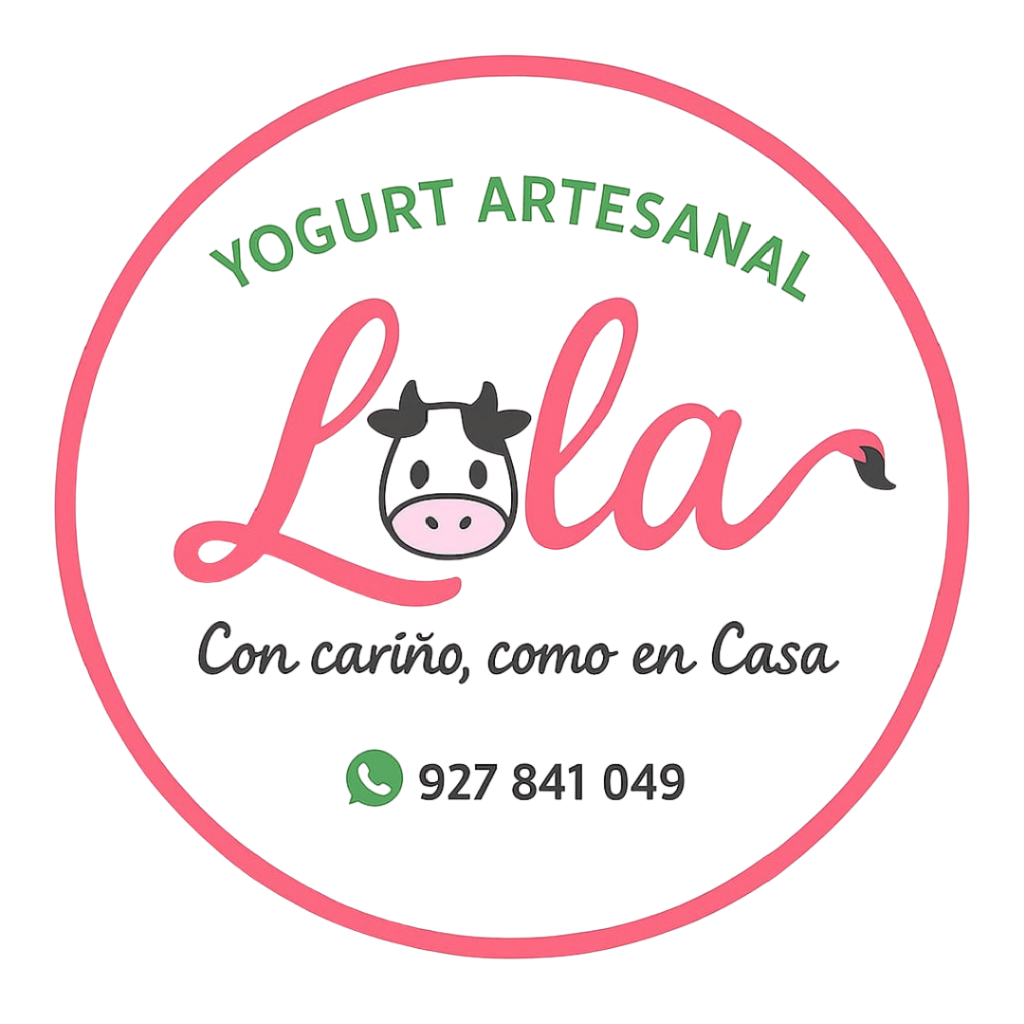
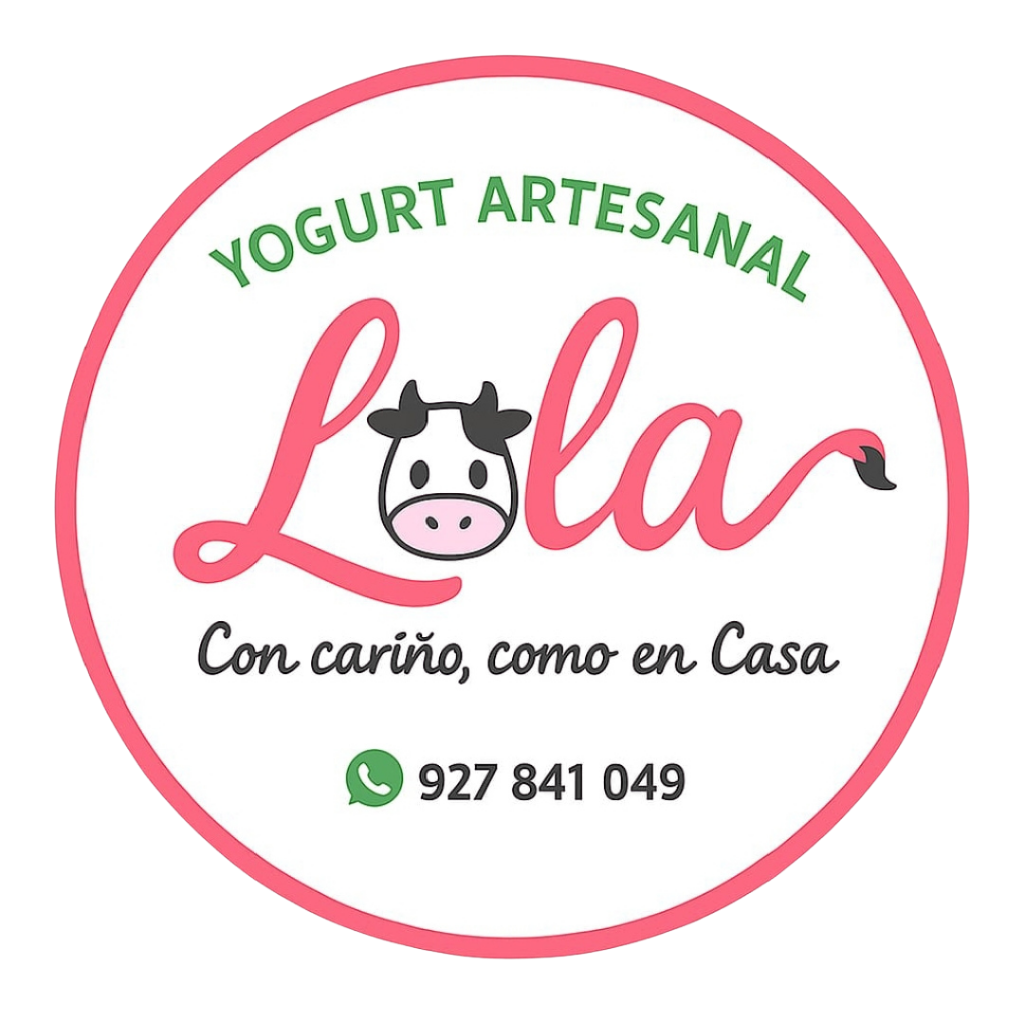
imagen en seccion de inicio

diff --git a/src/index.css b/src/index.css
@@ -546,7 +546,17 @@ h6 {
   position: relative;
 }
 
-/* Mock IDE Code Editor Window */
+/* Hero Image */
+.hero-image {
+  width: 100%;
+  max-width: 600px;
+  height: auto;
+  border-radius: var(--rounded-lg);
+  object-fit: cover;
+  filter: drop-shadow(0 15px 35px rgba(0,0,0,0.5));
+}
+
+/* Mock IDE Code Editor Window (Legacy) */
 .code-editor-window {
   width: 100%;
   max-width: 440px;
@@ -1022,48 +1032,113 @@ h6 {
 /* 7. Sponsors Section */
 .sponsors-section {
   border-color: rgba(255, 255, 255, 0.05);
+  background: radial-gradient(circle at center, rgba(15, 23, 42, 0.6) 0%, transparent 70%);
 }
 
-.sponsors-title {
-  margin-bottom: 32px;
+.sponsors-marquee-wrapper {
+  width: 100%;
+  overflow: hidden;
+  position: relative;
+  padding: 40px 0;
+  white-space: nowrap;
+  -webkit-mask-image: linear-gradient(to right, transparent 0%, black 15%, black 85%, transparent 100%);
+  mask-image: linear-gradient(to right, transparent 0%, black 15%, black 85%, transparent 100%);
 }
 
-.sponsors-grid {
-  display: flex;
-  justify-content: center;
-  align-items: center;
-  gap: 64px;
-  flex-wrap: wrap;
-}
-
-.sponsor-item {
-  display: flex;
-  align-items: center;
-  gap: 10px;
-  transition: all 0.3s ease;
-  cursor: pointer;
-  user-select: none;
-}
-
-.sponsor-item:hover {
-  transform: scale(1.05);
-}
-
-.sponsor-item:hover .sponsor-icon,
-.sponsor-item:hover .sponsor-name {
-  color: #ffffff;
-}
-
-.sponsor-icon {
+.sponsors-marquee {
   display: inline-flex;
   align-items: center;
-  transition: color 0.3s ease;
+  gap: 60px;
+  animation: scroll-marquee 25s linear infinite;
+  padding-right: 60px; /* match the gap so it loops seamlessly without a stutter */
+}
+
+.sponsors-marquee:hover {
+  animation-play-state: paused;
+}
+
+.sponsor-logo-card {
+  width: 260px;
+  display: flex;
+  flex-direction: column;
+  justify-content: center;
+  align-items: center;
+  gap: 20px;
+  transition: all 0.4s cubic-bezier(0.175, 0.885, 0.32, 1.275);
+  flex-shrink: 0;
+  padding: 30px;
+  border-radius: 20px;
+  background: rgba(255, 255, 255, 0.08); /* Más visible */
+  border: 1px solid rgba(255, 255, 255, 0.15); /* Borde más notorio */
+  backdrop-filter: blur(10px);
+}
+
+.sponsor-logo-card:hover {
+  transform: translateY(-10px) scale(1.05);
+  background: rgba(255, 255, 255, 0.12); /* Más visible al pasar el mouse */
+  border-color: rgba(47, 217, 244, 0.4);
+  box-shadow: 0 15px 35px rgba(0, 0, 0, 0.4), 0 0 20px rgba(47, 217, 244, 0.2);
+}
+
+.sponsor-logo-img {
+  width: 200px;
+  height: 120px;
+  object-fit: contain;
+  transition: all 0.4s ease;
+  filter: drop-shadow(0 4px 6px rgba(0,0,0,0.3));
 }
 
 .sponsor-name {
-  font-weight: 700;
+  margin: 0;
   font-size: 1.1rem;
+  font-weight: 600;
+  color: var(--color-on-surface);
+  text-align: center;
+  letter-spacing: 0.5px;
   transition: color 0.3s ease;
+}
+
+.sponsor-logo-card:hover .sponsor-name {
+  color: var(--color-primary);
+  text-shadow: 0 0 10px rgba(47, 217, 244, 0.4);
+}
+
+.sponsor-socials {
+  display: flex;
+  gap: 18px;
+  transition: all 0.4s cubic-bezier(0.175, 0.885, 0.32, 1.275);
+}
+
+.sponsor-logo-card:hover .sponsor-socials {
+  transform: translateY(-5px);
+}
+
+.sponsor-social-icon {
+  color: var(--color-on-surface-variant);
+  transition: all 0.3s ease;
+  display: flex;
+  align-items: center;
+  justify-content: center;
+  width: 36px;
+  height: 36px;
+  border-radius: 50%;
+  background: rgba(255, 255, 255, 0.05);
+}
+
+.sponsor-social-icon:hover {
+  color: #ffffff;
+  background: var(--color-primary);
+  box-shadow: 0 0 15px var(--color-primary);
+  transform: translateY(-3px);
+}
+
+@keyframes scroll-marquee {
+  0% {
+    transform: translateX(0);
+  }
+  100% {
+    transform: translateX(-50%); /* Moves exactly half the width to loop seamlessly because we duplicated the array */
+  }
 }
 
 /* 8. Footer Section */

diff --git a/src/components/sections/Sponsors.tsx b/src/components/sections/Sponsors.tsx
@@ -1,46 +1,80 @@
 import React from 'react';
-import { BookOpen, Code, Cloud, Shield } from 'lucide-react';
 
-interface Sponsor {
-  name: string;
-  icon: React.ReactNode;
-}
+import p1 from '../../assets/patrocinadores1.png';
+import p2 from '../../assets/patrocinadores2.png';
+import p3 from '../../assets/patrocinadores3.png';
+import p4 from '../../assets/patrocinadores4.png';
+import p5 from '../../assets/patrocinadores5.png';
+import p6 from '../../assets/patrocinadores6.png';
+import p7 from '../../assets/patrocinadores7.png';
+import p8 from '../../assets/patrocinadores8.png';
+import p9 from '../../assets/patrocinadores9.png';
 
 export const Sponsors: React.FC = () => {
-  const sponsorsList: Sponsor[] = [
-    {
-      name: 'UPT',
-      icon: <BookOpen size={24} />,
-    },
-    {
-      name: 'CODERO',
-      icon: <Code size={24} />,
-    },
-    {
-      name: 'SKYNET',
-      icon: <Cloud size={24} />,
-    },
-    {
-      name: 'SHIELD',
-      icon: <Shield size={24} />,
-    },
+  const sponsors = [
+    { image: p1, name: "Leyva Cars" },
+    { image: p2, name: "Yogurt Artesanal Lola" },
+    { image: p3, name: "La Trilogía del Sabor" },
+    { image: p4, name: "NutriFit" },
+    { image: p5, name: "Magik Barber" },
+    { image: p6, name: "Natu Cakes" },
+    { image: p7, name: "Papa Express" },
+    { image: p8, name: "Librera - T" },
+    { image: p9, name: "La Pronta pizza" }
   ];
+  // Duplicamos el arreglo para hacer el efecto de infinito suave
+  const infiniteSponsors = [...sponsors, ...sponsors];
 
   return (
-    <section className="sponsors-section section-padding border-top">
-      <div className="container">
-        <h4 className="sponsors-title label-caps text-center text-muted">
-          Nuestros Patrocinadores
-        </h4>
-        <div className="sponsors-grid">
-          {sponsorsList.map((sponsor, index) => (
-            <div key={index} className="sponsor-item">
-              <span className="sponsor-icon text-muted">{sponsor.icon}</span>
-              <span className="sponsor-name label-mono text-muted">{sponsor.name}</span>
-            </div>
-          ))}
-        </div>
+    <section className="sponsors-section section-padding border-top" style={{ overflow: 'hidden' }}>
+      <div className="container" style={{ textAlign: 'center' }}>
+        <span className="section-tag label-mono text-green" style={{ marginBottom: '10px', display: 'inline-block' }}>
+          // APOYO CONSTANTE
+        </span>
+        <h2 className="section-title headline-lg" style={{ marginBottom: '15px' }}>
+          Gracias a nuestros Patrocinadores
+        </h2>
+        <p className="section-desc body-md" style={{ maxWidth: '600px', margin: '0 auto 40px auto', color: 'var(--color-on-surface-variant)' }}>
+          El CATEC 2026-I es posible gracias al valioso aporte de estas instituciones y empresas que apuestan por el desarrollo tecnológico y la educación de nuestros estudiantes.
+        </p>
       </div>
+
+      <div className="sponsors-marquee-wrapper">
+        <div className="sponsors-marquee">
+          {infiniteSponsors.map((sponsor, index) => (
+            <div key={index} className="sponsor-logo-card">
+              <img 
+                src={sponsor.image} 
+                alt={sponsor.name} 
+                className="sponsor-logo-img"
+              />
+              <h3 className="sponsor-name">{sponsor.name}</h3>
+              <div className="sponsor-socials">
+                <a href="https://wa.me/numerodeejemplo" target="_blank" rel="noopener noreferrer" className="sponsor-social-icon" aria-label="WhatsApp">
+                    {/* SVG Oficial WhatsApp */}
+                    <svg xmlns="http://www.w3.org/2000/svg" width="18" height="18" viewBox="0 0 24 24" fill="currentColor" stroke="none">
+                      <path d="M17.472 14.382c-.297-.149-1.758-.867-2.03-.967-.273-.099-.471-.148-.67.15-.197.297-.767.966-.94 1.164-.173.199-.347.223-.644.075-.297-.15-1.255-.463-2.39-1.405-.883-.733-1.48-1.638-1.653-1.935-.173-.297-.018-.458.13-.606.134-.133.298-.347.446-.52.149-.174.198-.298.298-.497.099-.198.05-.371-.025-.52-.075-.149-.669-1.612-.916-2.207-.242-.579-.487-.5-.669-.51-.173-.008-.371-.01-.57-.01-.198 0-.52.074-.792.372-.272.297-1.04 1.016-1.04 2.479 0 1.462 1.065 2.875 1.213 3.074.149.198 2.096 3.2 5.077 4.487.709.306 1.262.489 1.694.625.712.227 1.36.195 1.871.118.571-.085 1.758-.719 2.006-1.413.248-.694.248-1.289.173-1.413-.074-.124-.272-.198-.57-.347m-5.421 7.403h-.004a9.87 9.87 0 01-5.031-1.378l-.361-.214-3.741.982.998-3.648-.235-.374a9.86 9.86 0 01-1.51-5.26c.001-5.45 4.436-9.884 9.888-9.884 2.64 0 5.122 1.03 6.988 2.898a9.825 9.825 0 012.893 6.994c-.003 5.45-4.437 9.884-9.885 9.884m8.413-18.297A11.815 11.815 0 0012.05 0C5.495 0 .16 5.335.157 11.892c0 2.096.547 4.142 1.588 5.945L.057 24l6.305-1.654a11.882 11.882 0 005.683 1.448h.005c6.554 0 11.89-5.335 11.893-11.893a11.821 11.821 0 00-3.48-8.413z"></path>
+                    </svg>
+                  </a>
+                  <a href="https://www.facebook.com/" target="_blank" rel="noopener noreferrer" className="sponsor-social-icon" aria-label="Facebook">
+                    {/* SVG Facebook */}
+                    <svg xmlns="http://www.w3.org/2000/svg" width="18" height="18" viewBox="0 0 24 24" fill="none" stroke="currentColor" strokeWidth="2" strokeLinecap="round" strokeLinejoin="round">
+                      <path d="M18 2h-3a5 5 0 0 0-5 5v3H7v4h3v8h4v-8h3l1-4h-4V7a1 1 0 0 1 1-1h3z"></path>
+                    </svg>
+                  </a>
+                  <a href="https://www.instagram.com/" target="_blank" rel="noopener noreferrer" className="sponsor-social-icon" aria-label="Instagram">
+                    {/* SVG Instagram */}
+                    <svg xmlns="http://www.w3.org/2000/svg" width="18" height="18" viewBox="0 0 24 24" fill="none" stroke="currentColor" strokeWidth="2" strokeLinecap="round" strokeLinejoin="round">
+                      <rect x="2" y="2" width="20" height="20" rx="5" ry="5"></rect>
+                      <path d="M16 11.37A4 4 0 1 1 12.63 8 4 4 0 0 1 16 11.37z"></path>
+                      <line x1="17.5" y1="6.5" x2="17.51" y2="6.5"></line>
+                    </svg>
+                  </a>
+                </div>
+              </div>
+            ))}
+          </div>
+        </div>
     </section>
   );
 };

diff --git a/src/components/sections/Hero.tsx b/src/components/sections/Hero.tsx
@@ -2,6 +2,7 @@ import React, { useState, useEffect } from 'react';
 import { ArrowRight, Terminal } from 'lucide-react';
 import { Button } from '../ui/Button';
 import { Chip } from '../ui/Chip';
+import uptFondo from '../../assets/uptfondo.png';
 
 export const Hero: React.FC = () => {
   const line1 = 'CATEC 2026 - I:';
@@ -94,31 +95,11 @@ export const Hero: React.FC = () => {
         </div>
 
         <div className="hero-visual animated-float">
-          <div className="code-editor-window glass-container">
-            <div className="editor-header">
-              <div className="editor-dots">
-                <span className="dot dot-red"></span>
-                <span className="dot dot-yellow"></span>
-                <span className="dot dot-green"></span>
-              </div>
-              <span className="editor-title label-caps"><Terminal size={12} className="inline mr-1" /> systems.upt</span>
-            </div>
-            <div className="editor-body">
-              <pre className="code-block label-mono"><code dangerouslySetInnerHTML={{ __html:
-`<span class="code-keyword">while</span>(<span class="code-method">alive</span>):
-    <span class="code-function">learn</span>()
-
-    <span class="code-keyword">if</span> fear &gt; curiosity:
-        <span class="code-keyword">break</span>
-
-    <span class="code-function">build</span>()
-    <span class="code-function">fail</span>()
-    <span class="code-function">improve</span>()
-
-<span class="code-keyword">return</span> <span class="code-method">"version++"</span>`
-              }} /></pre>
-            </div>
-          </div>
+          <img 
+            src={uptFondo} 
+            alt="Estudiante programando en CATEC"
+            className="hero-image"
+          />
         </div>
       </div>
     </section>